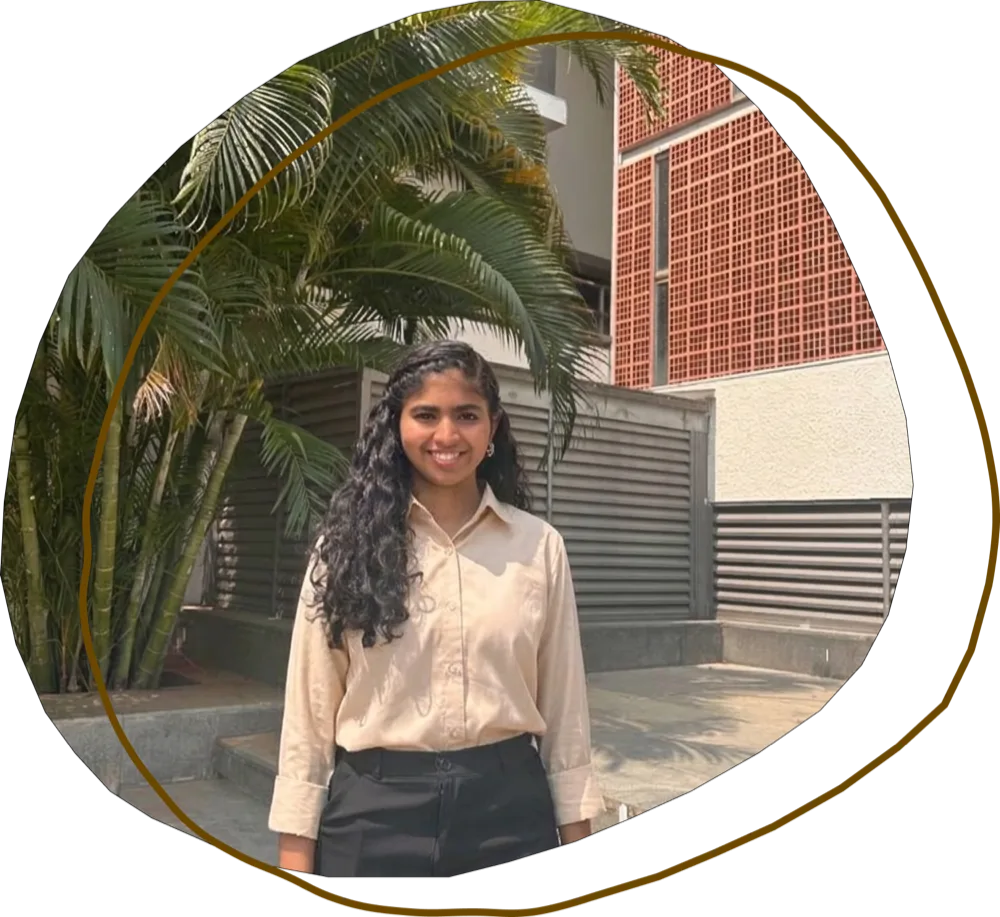
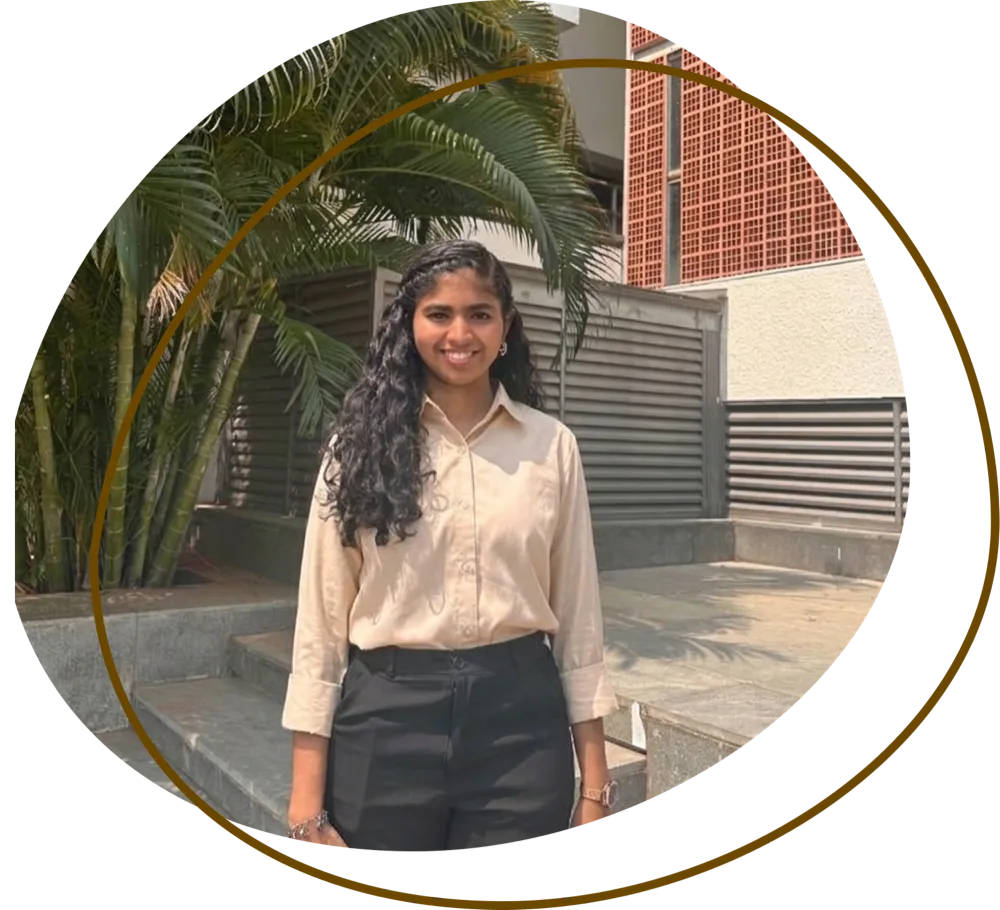
Swap the hero portrait for the tighter crop
Same treatment as before: resized to 1000px and encoded as WebP with
alpha, 101KB from a 2.3MB source.

diff --git a/index.html b/index.html
@@ -40,7 +40,7 @@
         <section id="home" class="hero">
             <div class="hero-inner">
                 <div class="hero-image" data-aos="zoom-in-right" data-aos-duration="1200">
-                    <img src="photo.webp" alt="Nainika Anish" width="1000" height="917">
+                    <img src="photo.webp" alt="Nainika Anish" width="1000" height="910">
                 </div>
 
                 <div class="hero-content">
